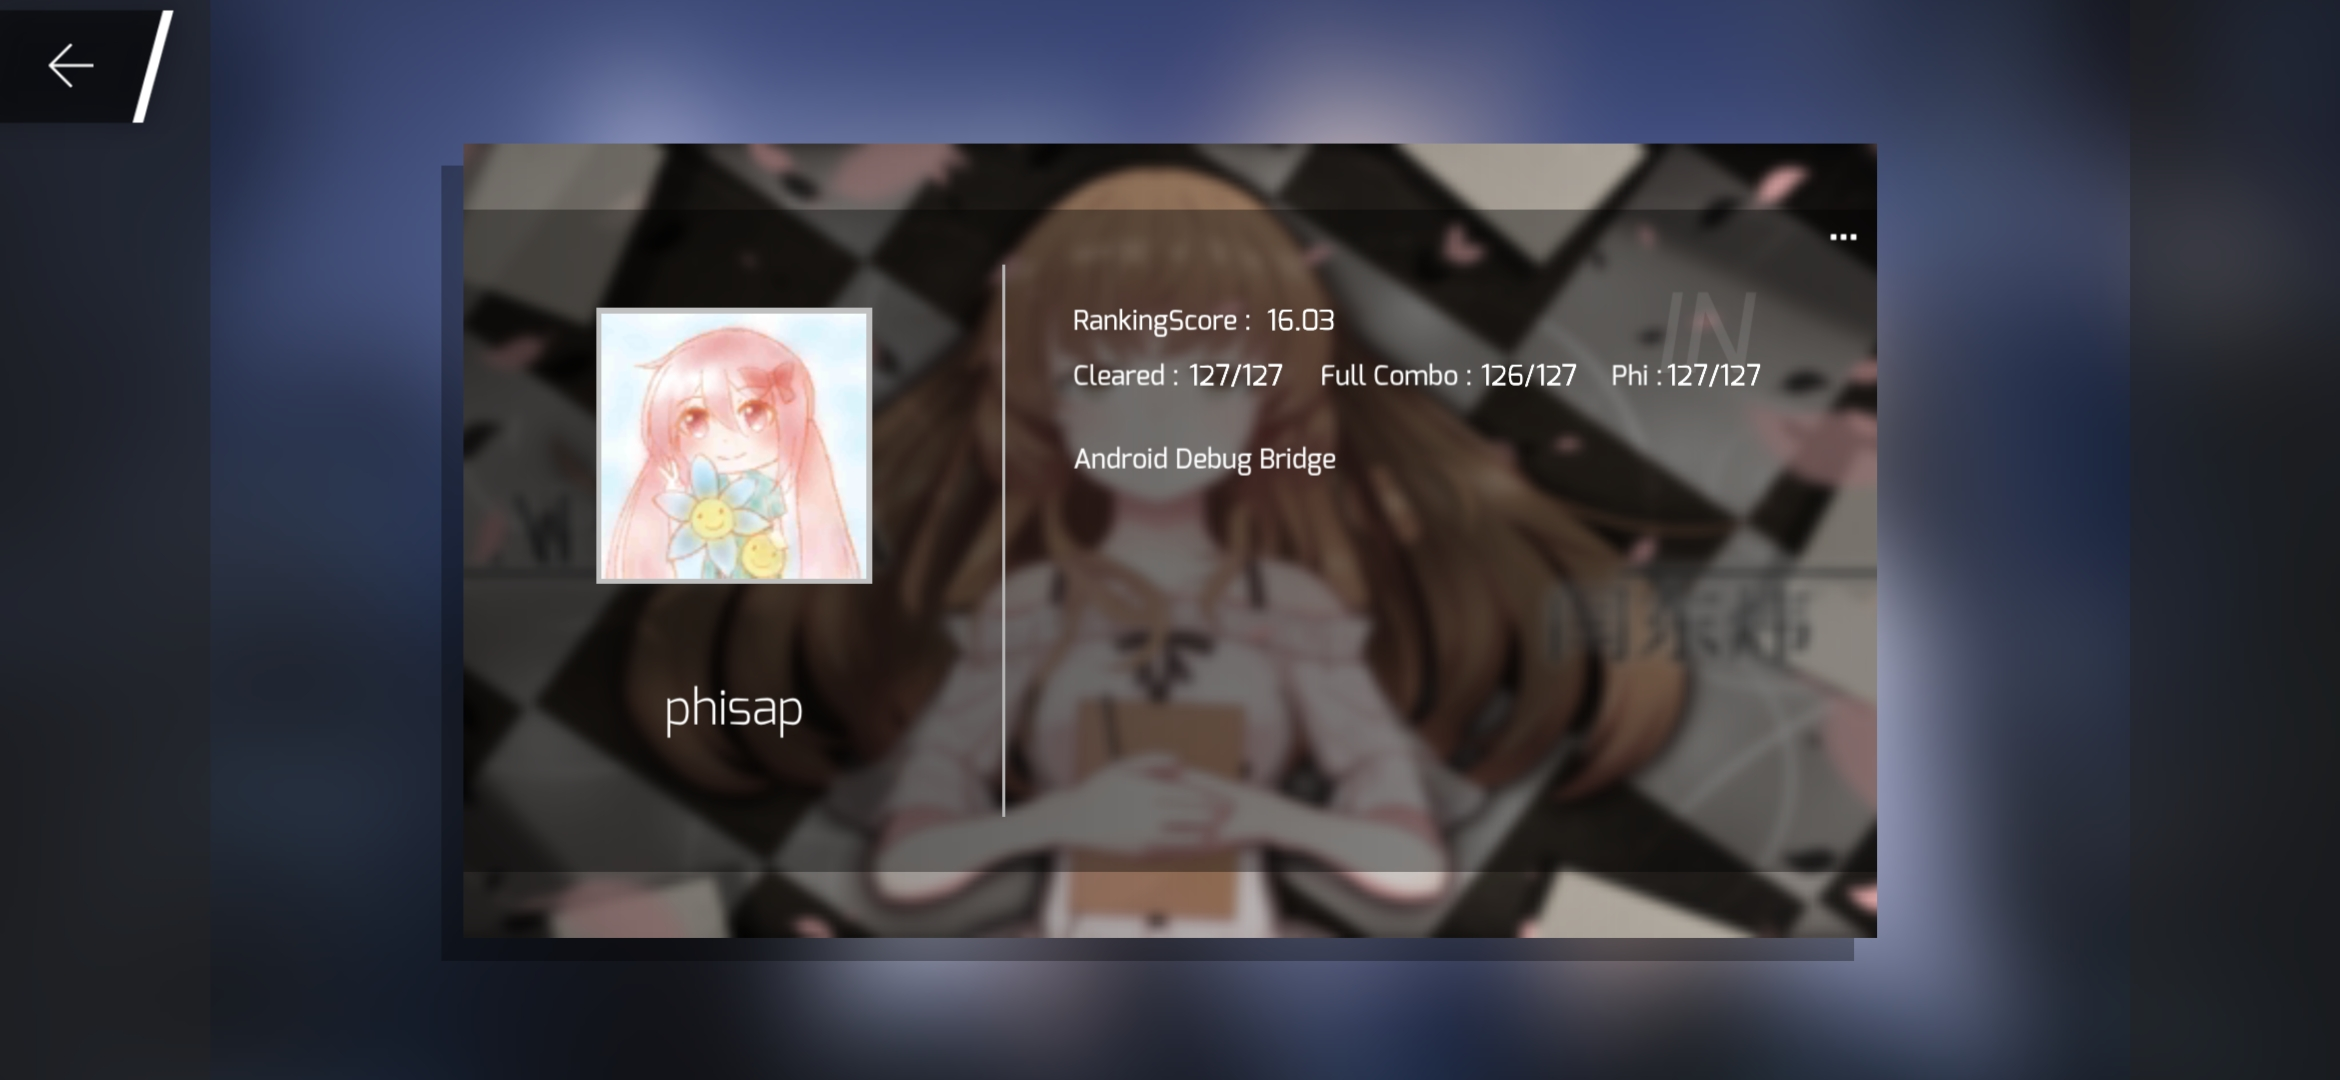
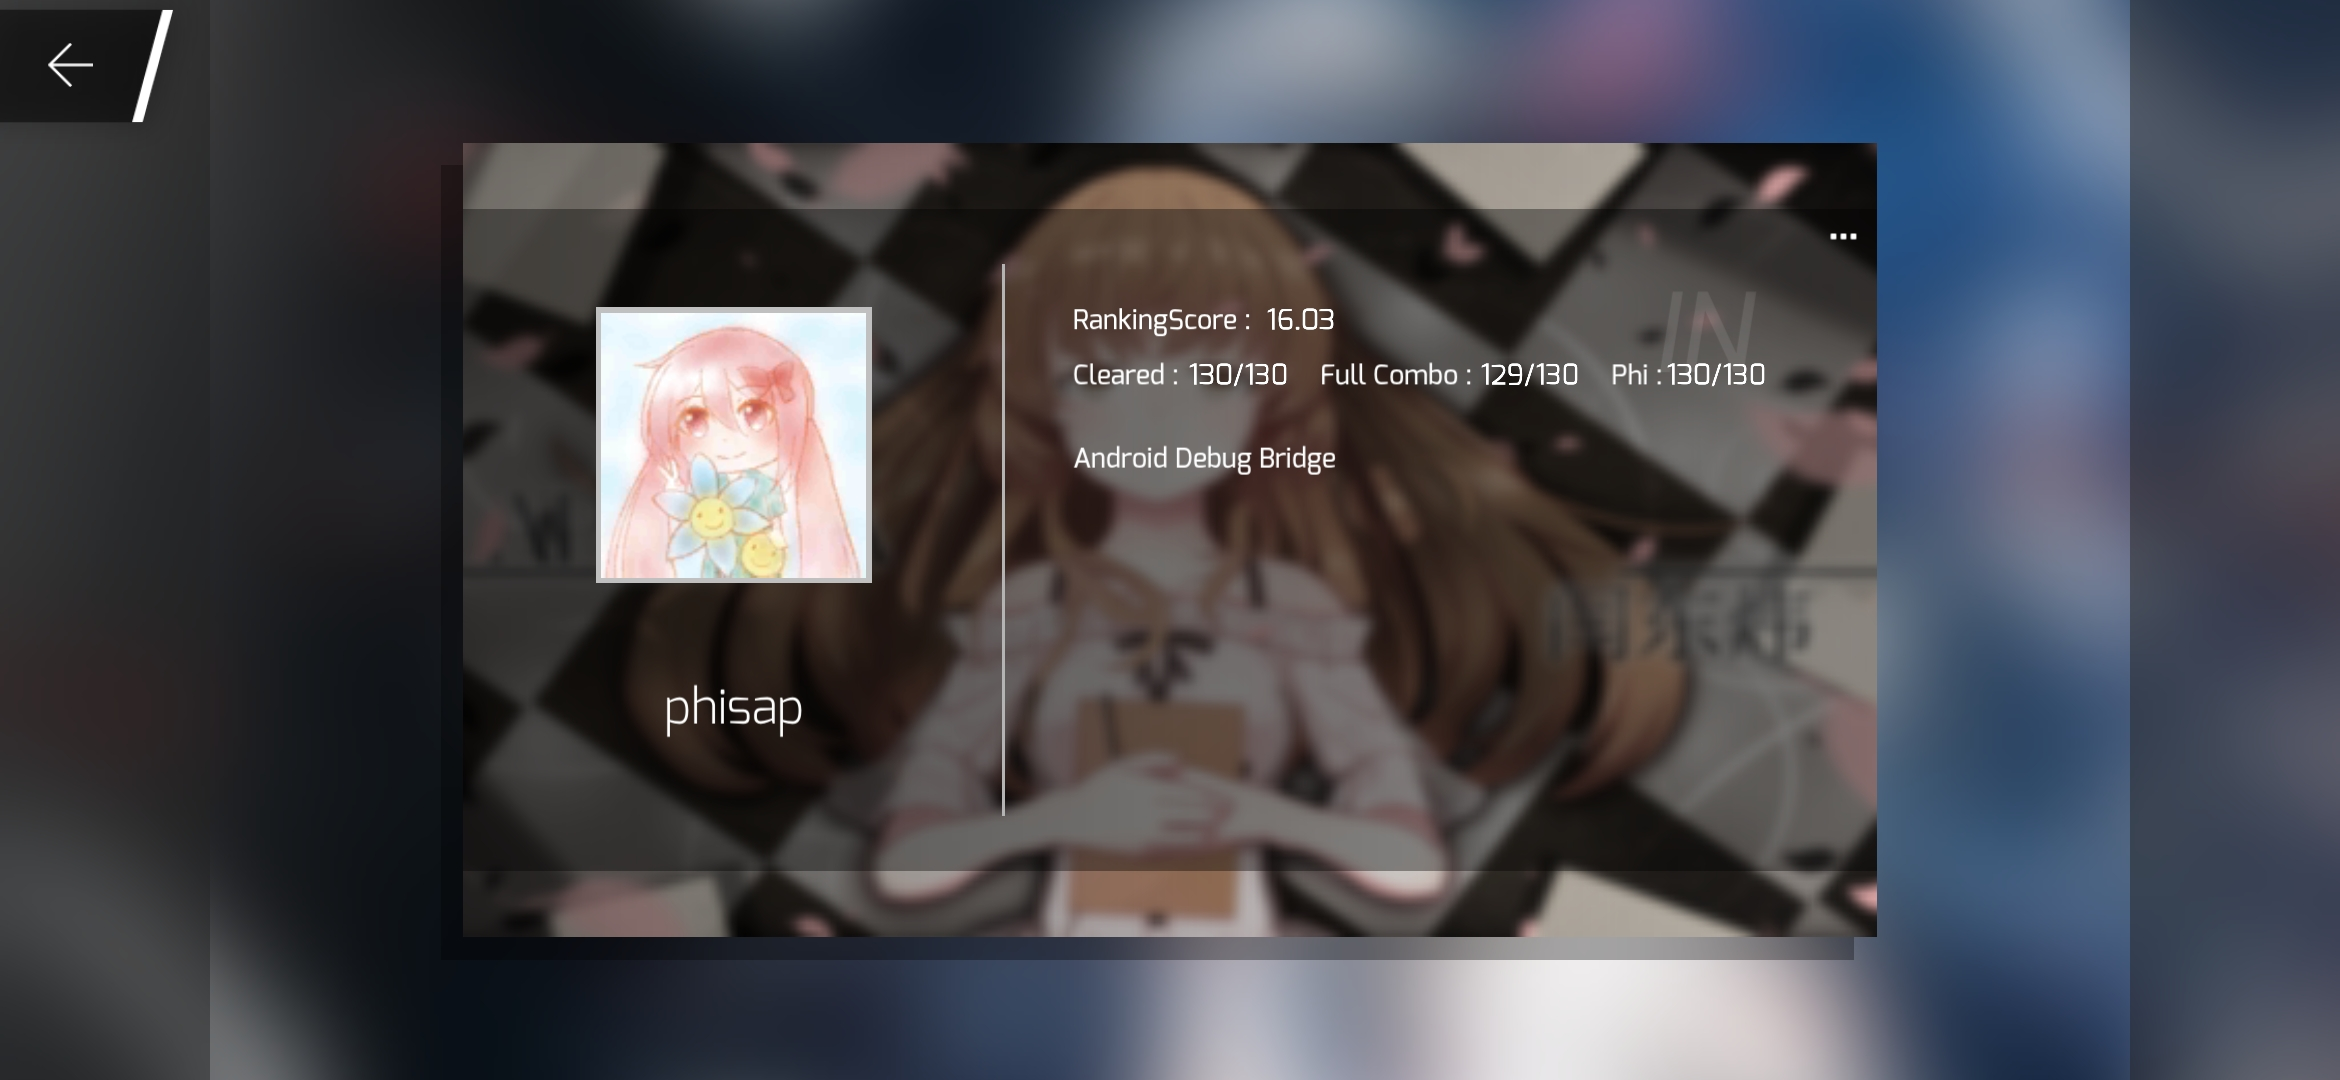
更新一下2.1.1的运行结果

diff --git a/README.md b/README.md
@@ -24,7 +24,7 @@
 0. **请安装Python 3.10。**
 1. `pip install -r requirements.txt`。
 2. 请安装`Android Debug Bridge`，**要求版本号至少高于`1.0.41`**，并确保相应的环境变量已经配置好。
-3. 请准备Phigros的游戏安装包。目前支持v1.6.9至v2.1.0。
+3. 请准备Phigros的游戏安装包。目前支持v1.6.9至v2.1.1。
 4. 准备服务端。请去[scrcpy的releases页面](https://github.com/Genymobile/scrcpy/releases) 下载`scrcpy-server-v1.21`，下载后请**直接**放到本项目的根文件夹下。
 
 ### 运行
@@ -34,6 +34,7 @@ python main.py
 
 ### 运行截图
 ![截图1](./screenshots/shot1.png)
+(好丑，下次更新用PySide2重写一下界面罢)
 
 ## 注意事项
 + 本程序**不依赖**root权限工作。
